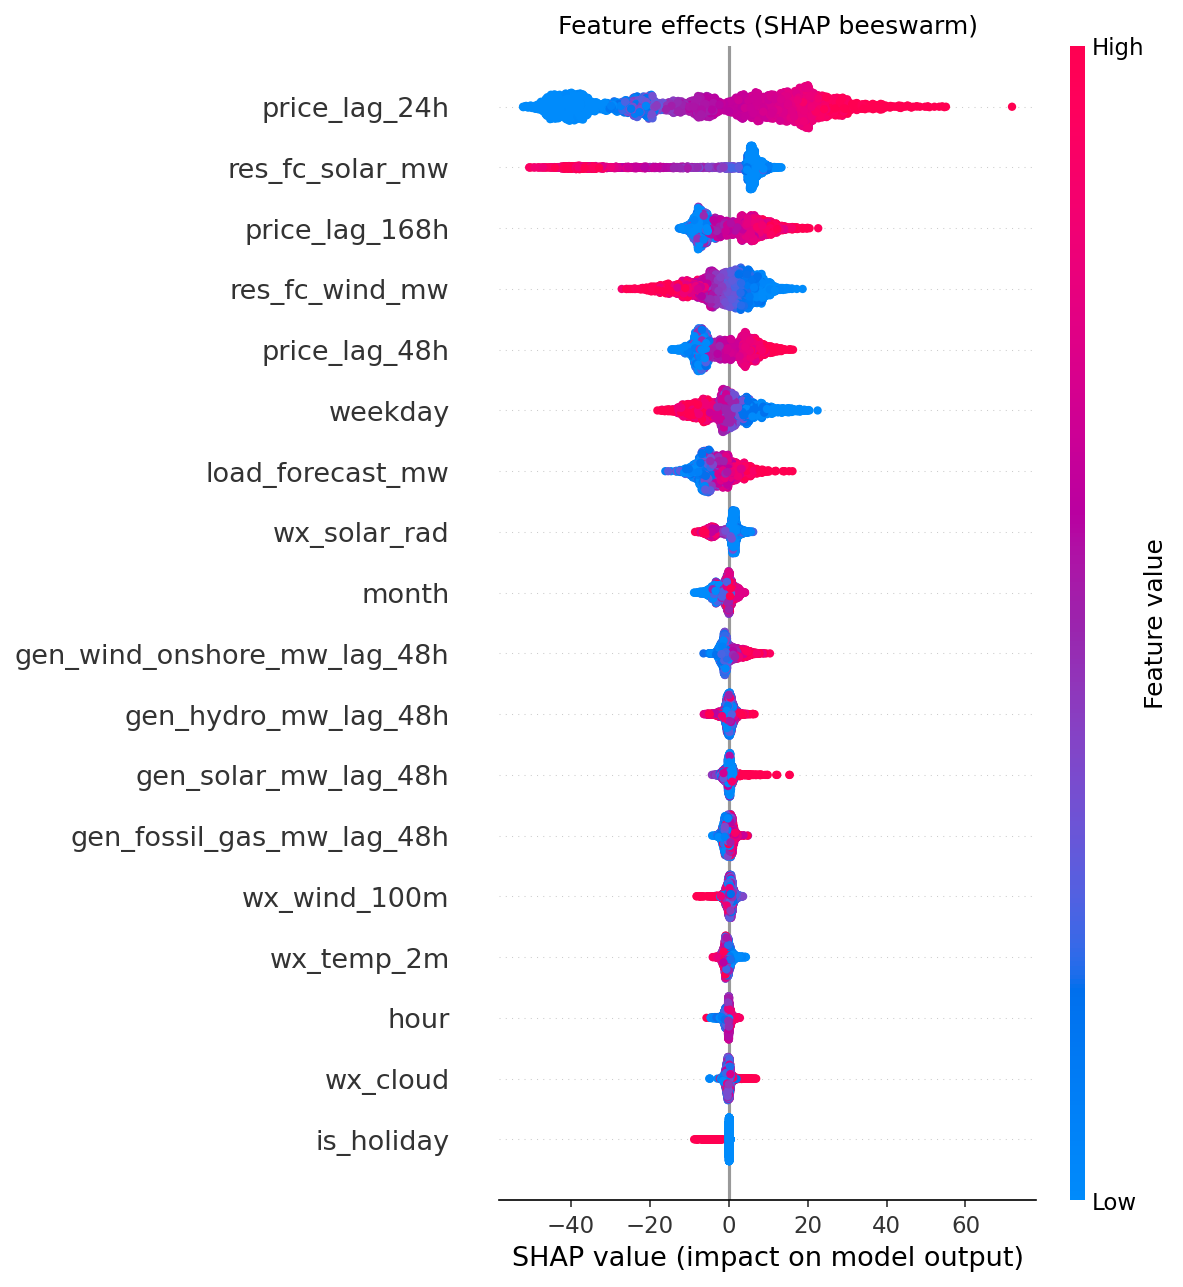
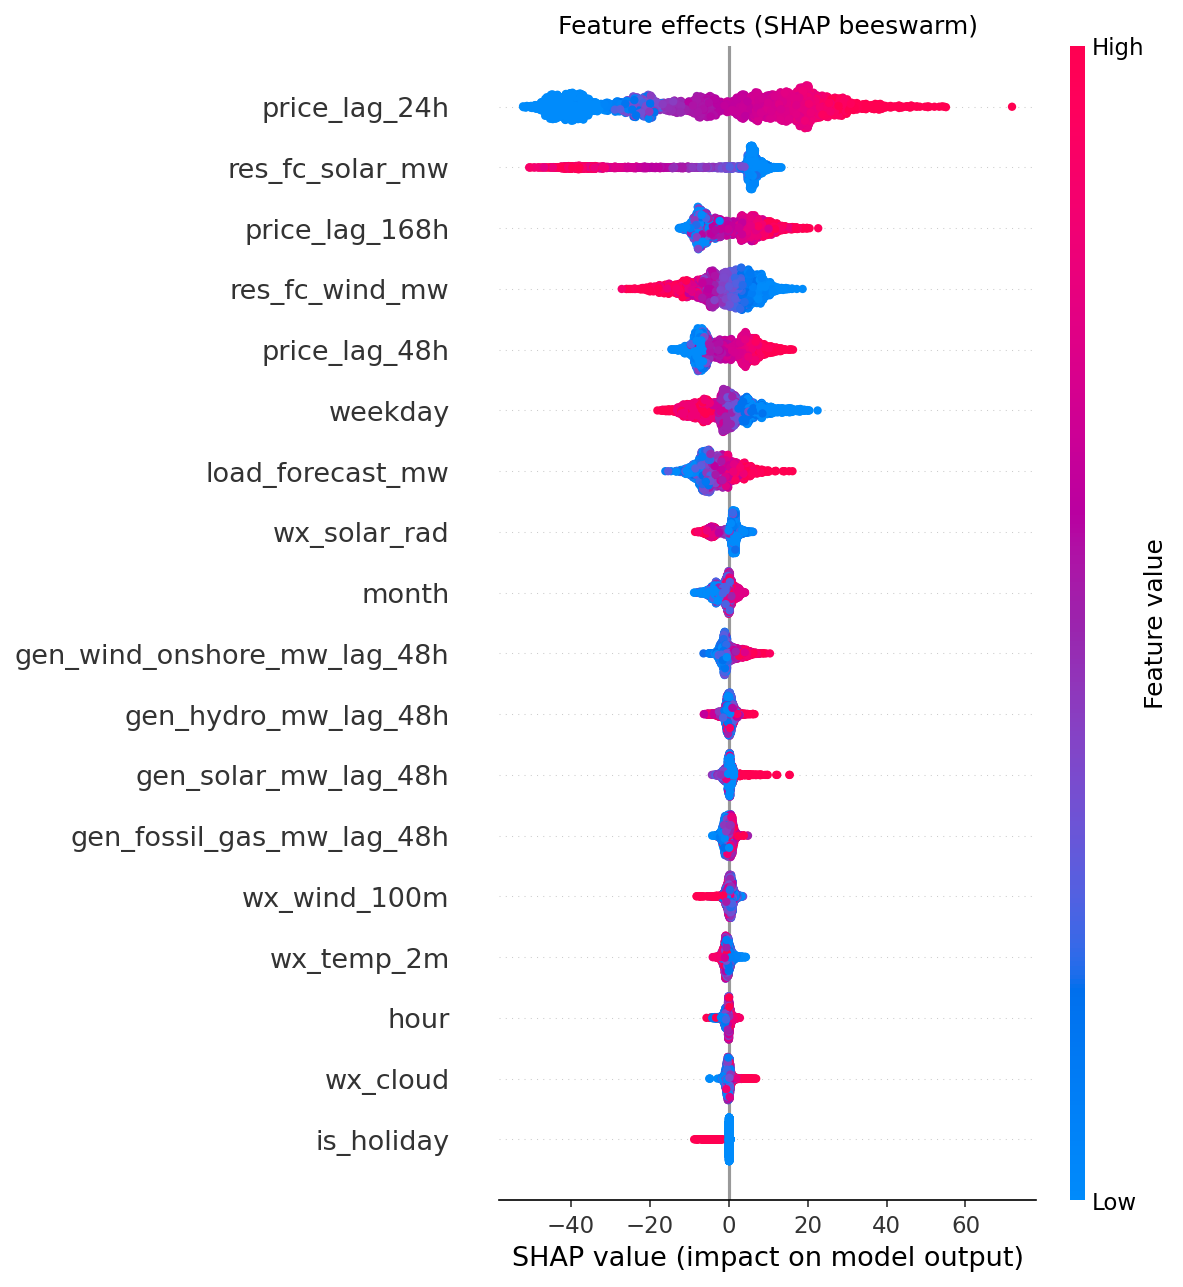
Fix Space flicker: stable scrollbar + fixed-width SHAP image
- always-on vertical scrollbar so content-height changes don't resize the
  full-width charts in a loop (the flicker)
- SHAP bar rendered at fixed width in a centred column; smaller figure
- regenerated shap_bar.png at 7x4.5in / 110 dpi

Changed region(s): [[0.5478, 0.1243, 0.6695, 0.8702], [0.5173, 0.0622, 0.5782, 0.0932], [0.4869, 0.1243, 0.5173, 0.1554]]

diff --git a/app/streamlit_app.py b/app/streamlit_app.py
@@ -278,6 +278,10 @@ def track_record_figure(recent: pd.DataFrame, t) -> go.Figure:
 
 
 st.set_page_config(page_title="GR Day-Ahead Price Forecast", layout="wide")
+# Force the vertical scrollbar to always show: otherwise it appears/hides as
+# content height crosses the viewport, resizing the full-width charts in a
+# loop — the "flicker" seen on the Space.
+st.markdown("<style>html { overflow-y: scroll; }</style>", unsafe_allow_html=True)
 
 head_left, head_right = st.columns([5, 1])
 with head_right:
@@ -364,8 +368,11 @@ if summary and "metrics" in summary:
 shap_bar = ROOT / "assets" / "shap_bar.png"
 if shap_bar.exists():
     st.subheader(t("shap_title"), help=t("help_shap"))
-    st.image(str(shap_bar), use_container_width=True)
-    st.caption(t("shap_caption"))
+    # fixed width in a centred column: a full-width stretch of this PNG made
+    # the page reflow/flicker on the Space
+    left, mid, right = st.columns([1, 2, 1])
+    mid.image(str(shap_bar), width=640)
+    mid.caption(t("shap_caption"))
 
 with st.expander(t("how_title")):
     first, second = (HOW_EL, HOW_EN) if code == "el" else (HOW_EN, HOW_EL)

diff --git a/scripts/shap_analysis.py b/scripts/shap_analysis.py
@@ -46,9 +46,10 @@ def main() -> None:
 
     shap.summary_plot(shap_values, sample, plot_type="bar", show=False)
     plt.title("Global feature importance (mean |SHAP|, EUR/MWh)")
+    plt.gcf().set_size_inches(7, 4.5)
     plt.tight_layout()
     bar_path = data.REPO_ROOT / "assets" / "shap_bar.png"
-    plt.savefig(bar_path, dpi=150, bbox_inches="tight")
+    plt.savefig(bar_path, dpi=110, bbox_inches="tight")
     plt.close()
 
     shap.summary_plot(shap_values, sample, show=False)